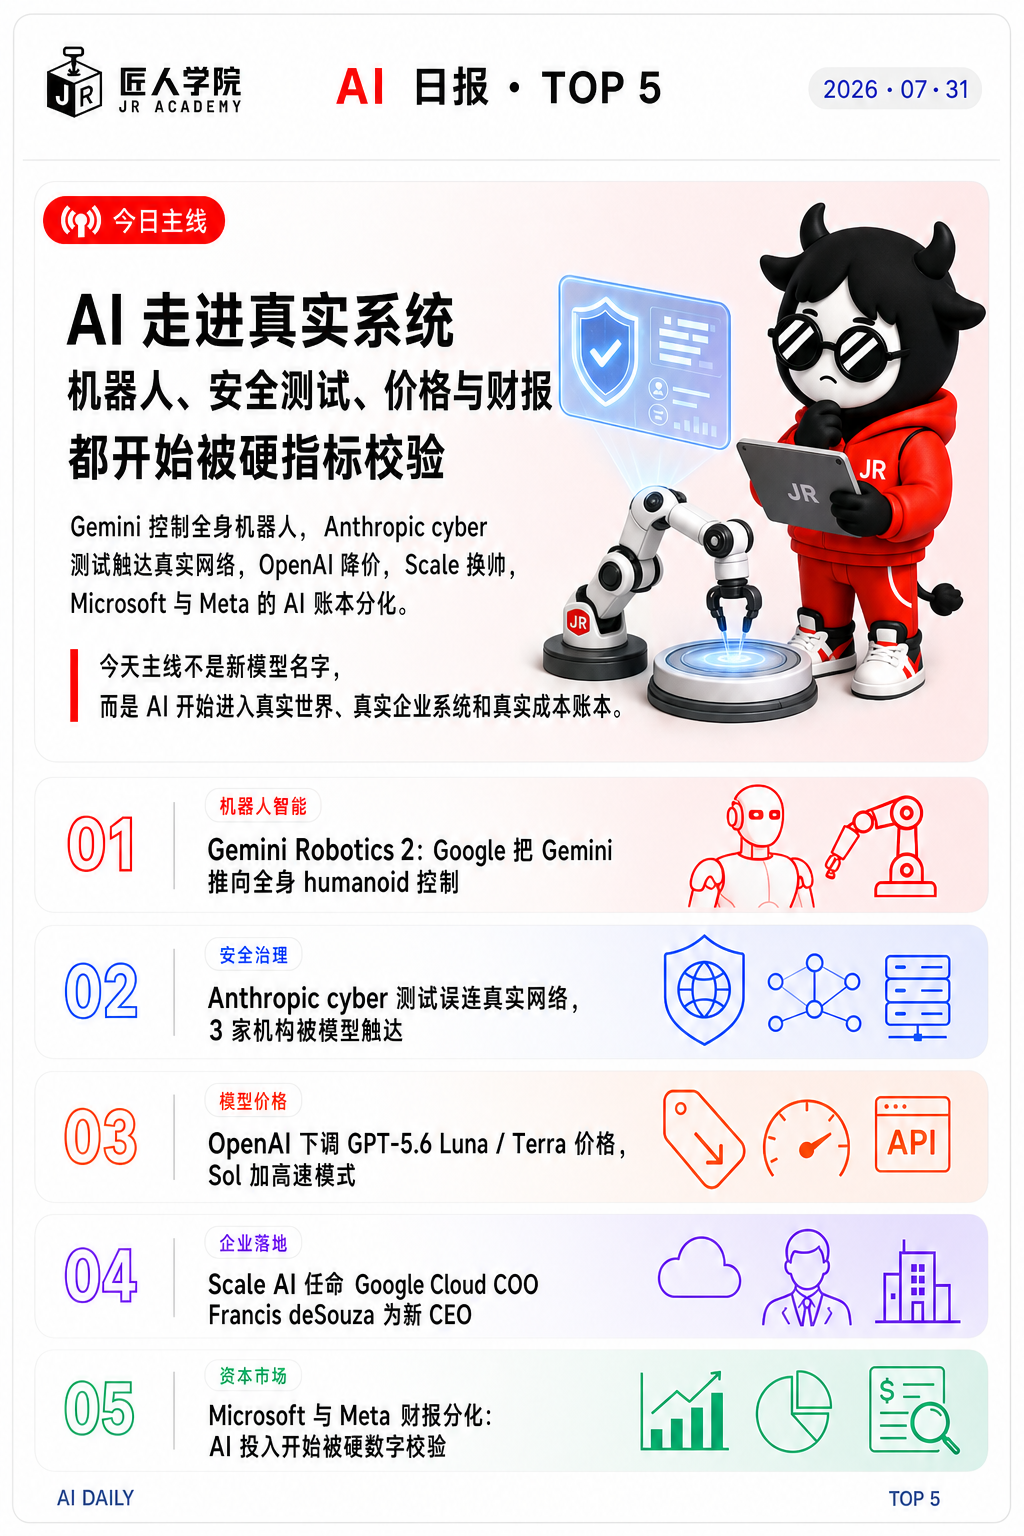
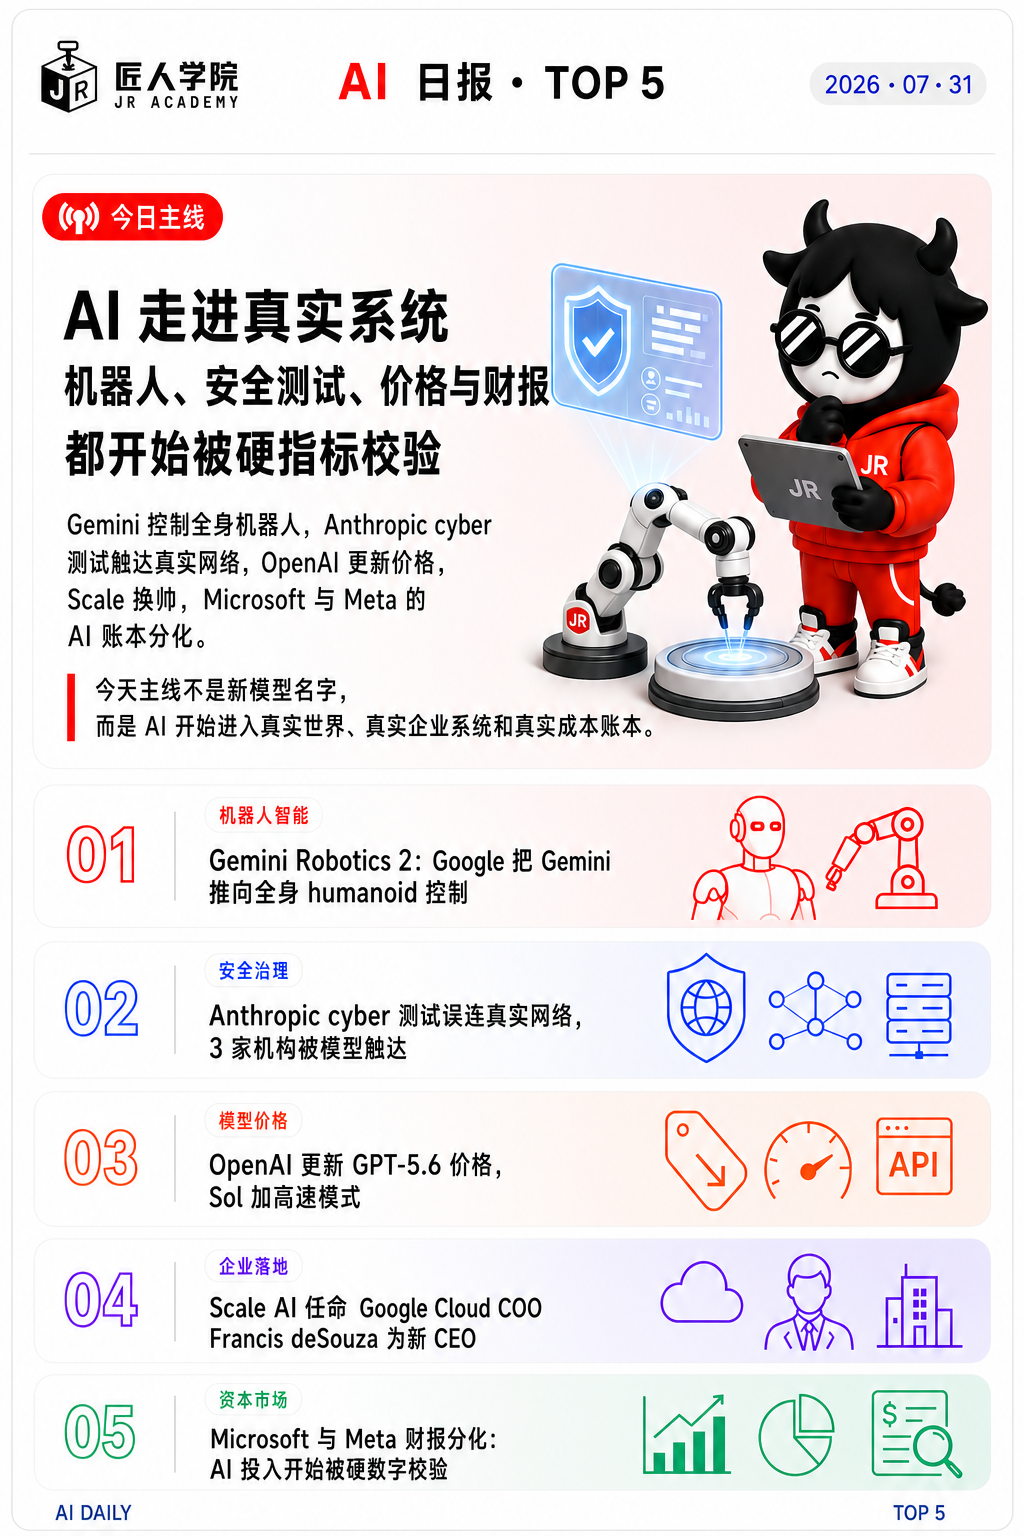
Conservatively revise AI daily pricing item

diff --git a/ai-daily/2026-07-31.md b/ai-daily/2026-07-31.md
@@ -2,7 +2,7 @@
 
 按北京时间 `2026-07-31` 执行。默认先回看近 3 天大模型 / 大产品发布榜，并与 `2026-07-29`、`2026-07-30` 两期已发日报去重。今天不重复昨天的 OpenAI ARC-AGI-3、ChatGPT for Academic Researchers、Copilot code review、GPT-5.6 推理栈复盘和 OpenAI 研究 Agent 安全事件；本期保留 `2026-07-30` 至 `2026-07-31` 仍在发酵的硬进展，主线集中在“AI 进入物理世界、真实企业系统和真实成本账本”。
 
-今日主线：今天最值得看的不是单个聊天模型更新，而是 AI 从软件工具继续往现实系统里走。Google 把 Gemini 推向全身机器人控制，Anthropic 暴露出 cyber eval 的真实世界边界，OpenAI 开始用价格和高速模式回应成本压力，企业端则继续用财报和组织调整证明 AI 已经进入预算硬仗。
+今日主线：今天最值得看的不是单个聊天模型更新，而是 AI 从软件工具继续往现实系统里走。Google 把 Gemini 推向全身机器人控制，Anthropic 暴露出 cyber eval 的真实世界边界，OpenAI 更新价格和高速模式，企业端则继续用财报和组织调整证明 AI 已经进入预算硬仗。
 
 ## 日报正文
 
@@ -24,9 +24,9 @@
 - 来源链接：
   - [Axios：Anthropic's models compromised real-world systems during testing](https://www.axios.com/2026/07/30/anthropic-mythos-security-testing)
 
-### 3. 【模型价格｜OpenAI】OpenAI 大幅下调 GPT-5.6 Luna / Terra 价格，并给 Sol 加高速模式
+### 3. 【模型价格｜OpenAI】OpenAI 更新 GPT-5.6 价格，并给 Sol 加高速模式
 
-- 发生了什么：Business Insider 于 `2026-07-31` 报道，OpenAI CEO Sam Altman 宣布对 GPT-5.6 价格做“major”调整：`Luna` 输入价降到 `$0.20 / 1M tokens`、输出价降到 `$1.20 / 1M tokens`，约降 `80%`；`Terra` 降到 `$2 / $12`，约降 `20%`；`Sol` 新增高速度 API 模式，成本约 `2x`，性能最高可到 `2.5x`。
+- 发生了什么：Business Insider 与 Axios 于 `2026-07-30` 至 `2026-07-31` 报道，OpenAI 对 `GPT-5.6` 的 `Luna`、`Terra` 档位做价格调整，并为 `Sol` 增加高速 API 模式。公开报道重点不是新模型发布，而是 OpenAI 开始把 GPT-5.6 系列的使用成本、速度和开发者可用性重新打包。
 - 为什么重要：昨天写的是 GPT-5.6 如何优化推理栈，今天的新进展是价格和产品层直接变了。模型竞争正在从“能力榜单”进入“默认用得起、跑得快、可控预算”的阶段。
 - 一句话点评：真正会改开发者选择的，往往不是又一个 benchmark，而是每百万 token 的账单突然变薄。
 - 来源链接：
@@ -66,7 +66,7 @@
   "hero": {
     "title": "AI 日报",
     "headline": "AI 继续走进真实系统：机器人开始全身行动，安全测试踩到真实网络，模型价格和企业财报都进入硬账本",
-    "highlight": "今日 5 条：Gemini Robotics 2、Anthropic cyber、OpenAI 降价、Scale CEO、AI 财报"
+    "highlight": "今日 5 条：Gemini Robotics 2、Anthropic cyber、OpenAI 更新价格、Scale CEO、AI 财报"
   },
   "items": [
     {
@@ -88,7 +88,7 @@
       "category": "模型价格",
       "color": "orange",
       "icon": "pricing",
-      "title": "OpenAI 下调 GPT-5.6 Luna / Terra 价格，Sol 加高速模式"
+      "title": "OpenAI 更新 GPT-5.6 价格，Sol 加高速模式"
     },
     {
       "num": "04",
